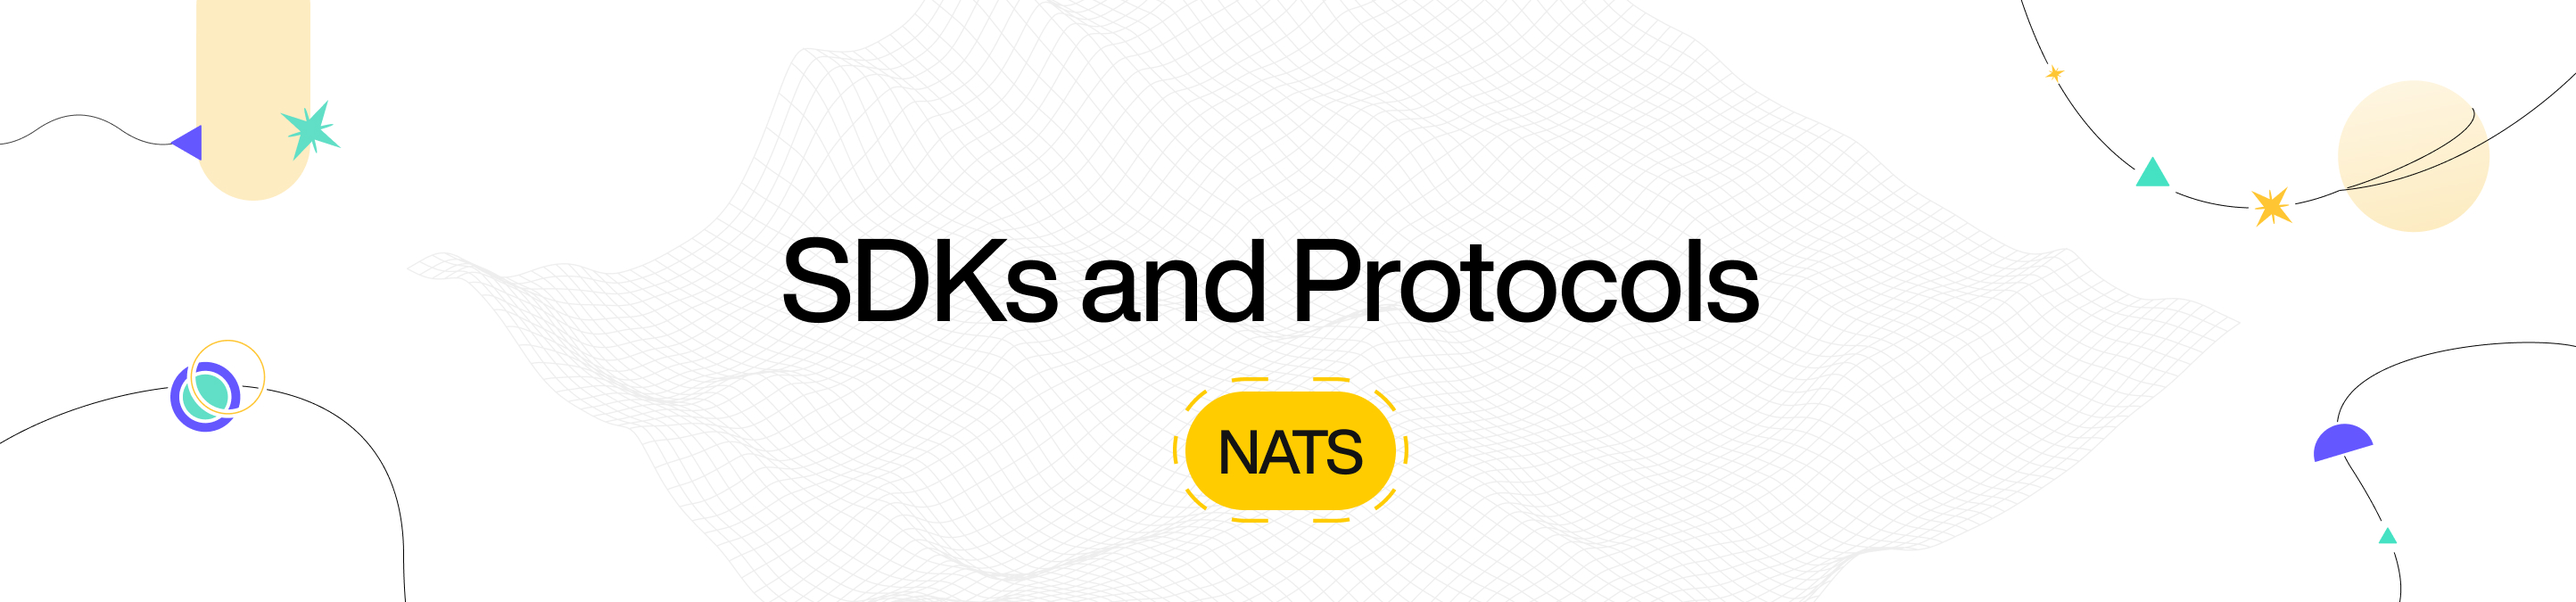
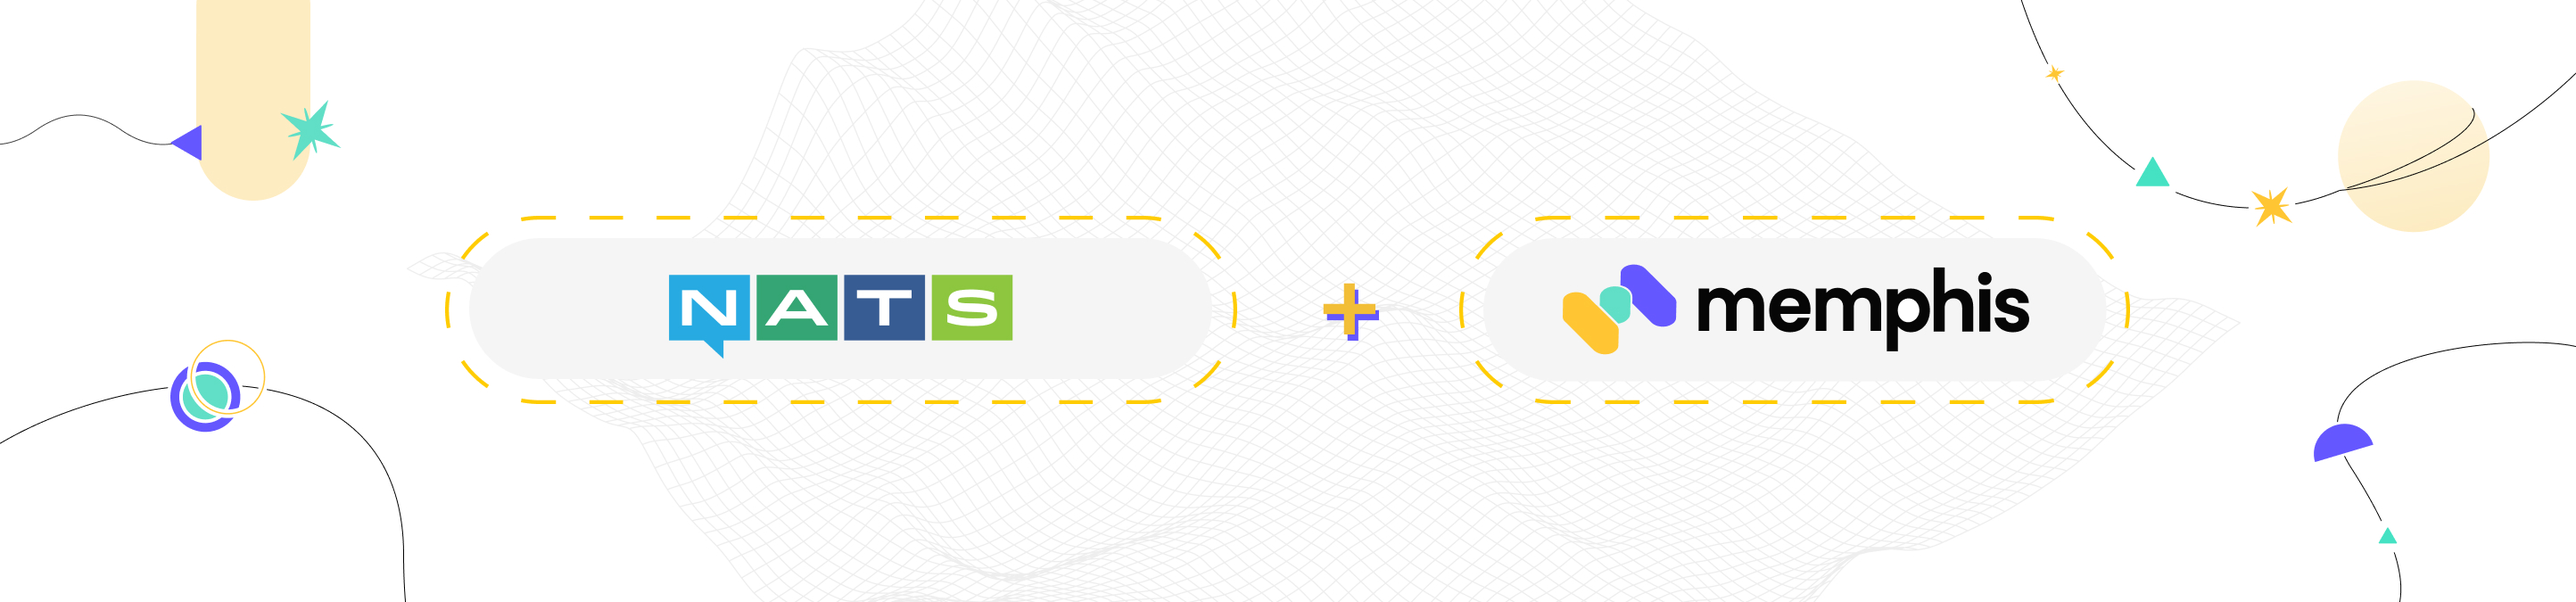
GitBook: [#779] No subject

diff --git a/sdks-and-protocols/nats.md b/sdks-and-protocols/nats.md
@@ -1,6 +1,6 @@
 ---
-cover: ../.gitbook/assets/NATS + Memphis.jpeg
-coverY: 0
+cover: ../.gitbook/assets/NATS + Memphis (1).jpeg
+coverY: -43.05148658448151
 ---
 
 # NATS
